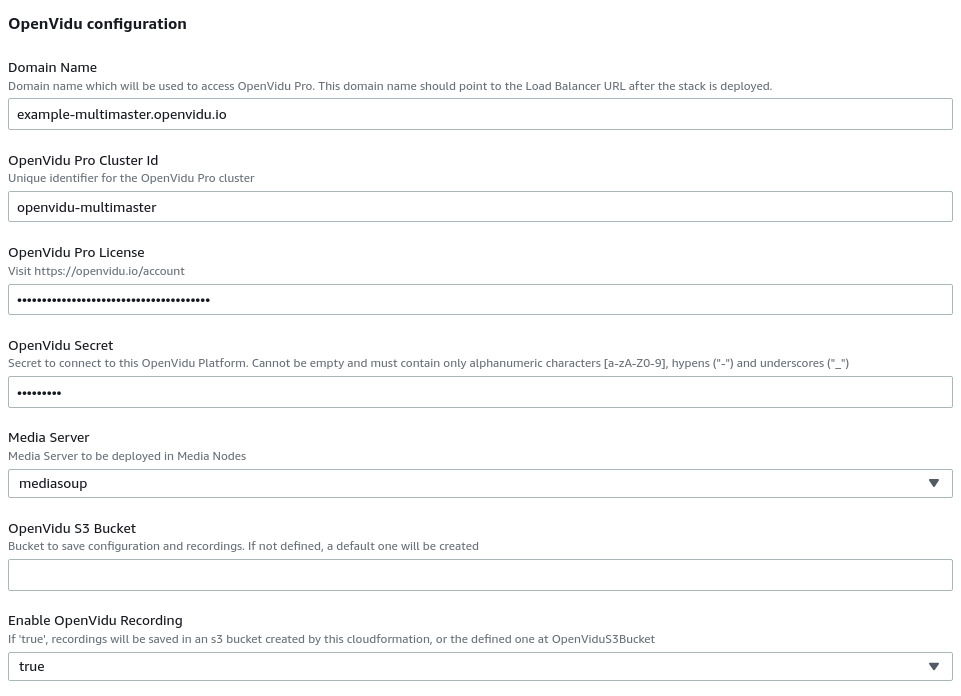
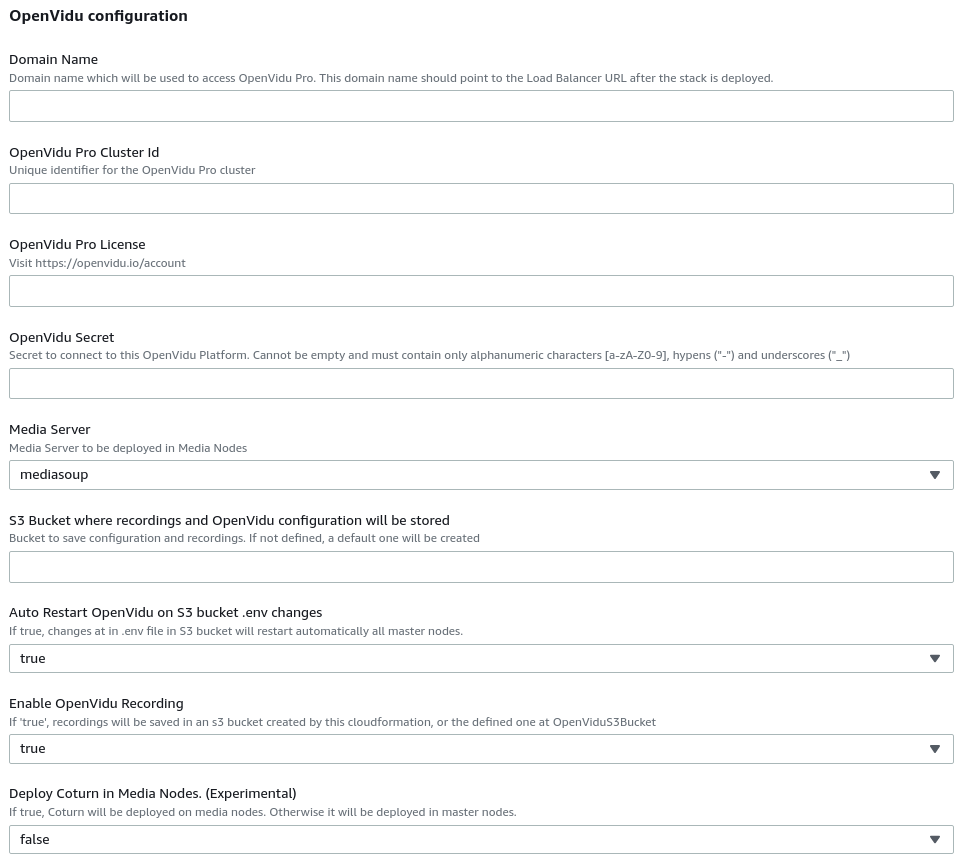
Add enterprise upgrading instructions and coturn in media nodes documentation

diff --git a/docs/reference-docs/openvidu-config.md b/docs/reference-docs/openvidu-config.md
@@ -11,8 +11,10 @@ These properties may be set:
 ---
 
 - **[Configuration parameters for OpenVidu <span id="openvidu-pro-tag" style="display: inline-block; background-color: #06d362; color: white; font-weight: bold; padding: 0px 5px; margin-left: 2px; border-radius: 3px; font-size: 13px; line-height:21px; font-family: Montserrat, sans-serif;">CE</span>](#configuration-parameters-for-openvidu-ce)**<div style="margin-bottom: 5px"></div>
+    - **[Advanced parameters for OpenVidu <span id="openvidu-pro-tag" style="display: inline-block; background-color: #06d362; color: white; font-weight: bold; padding: 0px 5px; margin-left: 2px; border-radius: 3px; font-size: 13px; line-height:21px; font-family: Montserrat, sans-serif;">CE</span>](#advanced-parameters-for-openvidu-ce)**<div style="margin-bottom: 5px"></div>
 - **[Configuration parameters for OpenVidu <span id="openvidu-pro-tag" style="display: inline-block; background-color: rgb(0, 136, 170); color: white; font-weight: bold; padding: 0px 5px; margin-left: 2px; border-radius: 3px; font-size: 13px; line-height:21px; font-family: Montserrat, sans-serif;">PRO</span>](#configuration-parameters-for-openvidu-pro)**<div style="margin-bottom: 5px"></div>
 - **[Configuration parameters for OpenVidu <span id="openvidu-pro-tag" style="display: inline-block; background-color: #9c27b0; color: white; font-weight: bold; padding: 0px 5px; margin-left: 2px; border-radius: 3px; font-size: 13px; line-height:21px; font-family: Montserrat, sans-serif;">ENTERPRISE</span>](#configuration-parameters-for-openvidu-enterprise)**<div style="margin-bottom: 5px"></div>
+    - **[Advanced parameters for OpenVidu <span id="openvidu-pro-tag" style="display: inline-block; background-color: rgb(0, 136, 170); color: white; font-weight: bold; padding: 0px 5px; margin-left: 2px; border-radius: 3px; font-size: 13px; line-height:21px; font-family: Montserrat, sans-serif;">PRO</span> <span id="openvidu-pro-tag" style="display: inline-block; background-color: #9c27b0; color: white; font-weight: bold; padding: 0px 5px; margin-left: 2px; border-radius: 3px; font-size: 13px; line-height:21px; font-family: Montserrat, sans-serif;">ENTERPRISE</span>](#advanced-parameters-for-openvidu-pro-and-enterprise)**<div style="margin-bottom: 5px"></div>
 - **[Special conditions of OpenVidu development container](#special-conditions-of-openvidu-development-container)**
 
 ---
@@ -51,6 +53,26 @@ These configuration parameters apply to OpenVidu CE, OpenVidu Pro and OpenVidu E
 | **`OPENVIDU_SESSIONS_GARBAGE_INTERVAL`** | How often the garbage collector of non active sessions runs. This helps cleaning up Sessions that have been initialized through REST API, and maybe have had Connections created, but have had no final users connected (no Connection of the Session entered `active` status). Default to 900s (15 mins). 0 to disable the non active sessions garbage collector. | **900** |
 | **`OPENVIDU_SESSIONS_GARBAGE_THRESHOLD`** | Minimum time in seconds that a non active session must have been in existence for the garbage collector of non active sessions to remove it. Default to 3600s (1 hour). If non active sessions garbage collector is disabled (property `OPENVIDU_SESSIONS_GARBAGE_INTERVAL` is set to 0) this property is ignored. | **3600** |
 | **`OPENVIDU_WEBRTC_ICE_SERVERS`** | Array of ICE servers to use instead of default Coturn at browser/clients side (comma-separated list of ICE Servers). Examples: <ul><li>`["url=turns:example.turn.com:443,staticAuthSecret=secret"]`</li><li>`["url=turns:example.turn.com:443,username=usertest,credential=userpass"]`</li></ul> [More Details](deployment/allow-users-behind-firewalls/){:target="\_blank"} | **[ ]** |
+
+<br>
+
+### Advanced parameters for OpenVidu CE
+
+<div class="warningBoxContent">
+  <div style="display: table-cell; vertical-align: middle;">
+      <i class="icon ion-android-alert warningIcon"></i>
+  </div>
+  <div class="warningBoxText">
+    OpenVidu is deployed by default with some sane defaults. We assume, for example, that all Nodes has its own Public IP, so public IPs are autodiscovered while deploying. If you deploy using Cloudformation or you have a netowork infrastructure similar to the one described in our guides, you don't need to modify any of these parameters. In any case, here are those parameters.
+  </div>
+</div>
+
+| Parameter | Description | Default value |
+| --------- | ----------- | ------------- |
+| **`COTURN_IP`** | This is the IP of the default TURN/STUN Coturn server deployed with OpenVidu. <br><ul><li>By default it is autodiscovered Public IPv4. This IP is used by browsers and Kurento Media Server as TURN/STUN service for ICE protocol to autodiscover its own Public IP.</li><li>Possible values: <ul><li>`auto-ipv4`</li><li>`auto-ipv6`</li><li>Any valid Public Ipv4 or Public IPv6</li></ul></li></ul> | **auto-ipv4** |
+| **`COTURN_PORT`** | This is the port used for TURN/STUN Coturn server deployed with OpenVidu in the master node. <br><ul><li>By default it is 3478. This port is used by browsers and Kurento Media Server as TURN/STUN service port for ICE protocol to autodiscover its own Public IP.</li><li>Possible values: Any value between 1-65535 | **3478** |
+| **`OPENVIDU_WEBRTC_ICE_SERVERS`** | Array of ICE servers to use instead of default Coturn at browser/clients side (comma-separated list of ICE Servers). When `OPENVIDU_WEBRTC_ICE_SERVERS` is used, Kurento <br> still uses `COTURN_IP` (or the public IP of media nodes if `OPENVIDU_PRO_COTURN_IN_MEDIA_NODES=true`) but browsers uses the TURN/STUN servers defined at `OPENVIDU_WEBRTC_ICE_SERVERS`.</li> Examples: <ul><li>`["url=turns:example.turn.com:443,staticAuthSecret=secret"]`</li><li>`["url=turns:example.turn.com:443,username=usertest,credential=userpass"]`</li></ul> [More Details](deployment/allow-users-behind-firewalls/){:target="\_blank"} | **[ ]** |
+
 
 <br>
 
@@ -111,6 +133,30 @@ These configuration parameters apply only to OpenVidu Enterprise.
 | **`OPENVIDU_WEBRTC_SIMULCAST`** | Whether to enable [simulcast](openvidu-enterprise/simulcast/) for all Publishers or not | **false** |
 
 <br>
+
+### Advanced parameters for OpenVidu Pro and Enterprise
+
+<div class="warningBoxContent">
+  <div style="display: table-cell; vertical-align: middle;">
+      <i class="icon ion-android-alert warningIcon"></i>
+  </div>
+  <div class="warningBoxText">
+    OpenVidu is deployed by default with some sane defaults. We assume, for example, that all Nodes has its own Public IP, so public IPs are autodiscovered while deploying. If you deploy using Cloudformation or you have a netowork infrastructure similar to the one described in our guides, you don't need to modify any of these parameters. In any case, here are those parameters.
+  </div>
+</div>
+
+| Parameter | Description | Default value |
+| --------- | ----------- | ------------- |
+| **`COTURN_IP`** | This is the IP of the default TURN/STUN Coturn server deployed with OpenVidu in the master node. <br><ul><li>By default it is autodiscovered Public IPv4. This IP is used by browsers and Kurento Media Server (Mediasoup does not need it) as TURN/STUN service for ICE protocol to autodiscover its own Public IP.</li><li>This parameter is used when `OPENVIDU_PRO_COTURN_IN_MEDIA_NODES=false`. When <br> `OPENVIDU_PRO_COTURN_IN_MEDIA_NODES=true` the public IP used for Coturn is the public IPv4 of the media node being in use, ignoring any value of `COTURN_IP`</li><li>Possible values: <ul><li>`auto-ipv4`</li><li>`auto-ipv6`</li><li>Any valid Public Ipv4 or Public IPv6</li></ul></li></ul> | **auto-ipv4** |
+| **`COTURN_PORT`** | This is the port used for TURN/STUN Coturn server deployed with OpenVidu in the master node. <br><ul><li>By default it is 3478. This port is used by browsers and Kurento Media Server (Mediasoup does not need it) as TURN/STUN service port for ICE protocol to autodiscover its own Public IP.</li><li>This parameter is used when `OPENVIDU_PRO_COTURN_IN_MEDIA_NODES=false`. When <br> `OPENVIDU_PRO_COTURN_IN_MEDIA_NODES=true`, defined port here is ignored and `OPENVIDU_PRO_COTURN_PORT_MEDIA_NODES` is used instead (which by default is 443)</li><li>Possible values: Any value between 1-65535 | **3478** |
+| **`OPENVIDU_WEBRTC_ICE_SERVERS`** | Array of ICE servers to use instead of default Coturn at browser/clients side (comma-separated list of ICE Servers). When `OPENVIDU_WEBRTC_ICE_SERVERS` is used, Kurento <br> still uses `COTURN_IP` (or the public IP of media nodes if `OPENVIDU_PRO_COTURN_IN_MEDIA_NODES=true`) but browsers uses the TURN/STUN servers defined at `OPENVIDU_WEBRTC_ICE_SERVERS`.</li> Examples: <ul><li>`["url=turns:example.turn.com:443,staticAuthSecret=secret"]`</li><li>`["url=turns:example.turn.com:443,username=usertest,credential=userpass"]`</li></ul> [More Details](deployment/allow-users-behind-firewalls/){:target="\_blank"} | **[ ]** |
+| **`COTURN_INTERNAL_RELAY`** | If `true`, Coturn will autodiscover its own default network gateway and use the default network gateway IP as a relay IP for ICE candidates. This is usefull if you want relayed traffic to go through internal network instead of the public internet | **false** |
+| **`OPENVIDU_PRO_COTURN_IN_MEDIA_NODES`** | **(Experimental)** If `true`, Coturn will be deployed in media nodes. As Public IP and Port configuration for Coturn, parameters `OPENVIDU_PRO_MEDIA_NODE_PUBLIC_IP_AUTODISCOVER` and `OPENVIDU_PRO_COTURN_PORT_MEDIA_NODES` configures how the Public IP is autodiscovered and what port is used respectively. | **false** |
+| **`OPENVIDU_PRO_MEDIA_NODE_PUBLIC_IP_AUTODISCOVER`** | This parameter defines how the public IP for Coturn is autodiscovered in media nodes when `OPENVIDU_PRO_COTURN_IN_MEDIA_NODES=true`. This IP is used by browsers and Kurento Media Server (Mediasoup does not need it) as TURN/STUN service for ICE protocol. Possible values: <ul><li>`auto-ipv4`</li><li>`auto-ipv6`</li></ul> | **false** |
+| **`OPENVIDU_PRO_COTURN_PORT_MEDIA_NODES`** | This parameter defines what port is used for Coturn in media nodes when `OPENVIDU_PRO_COTURN_IN_MEDIA_NODES=true`. This port is used by browsers and Kurento Media Server (Mediasoup does not need it) as TURN/STUN service port for ICE protocol. Possible values: Any value between 1-65535 | 443 |
+| **`KMS_DOCKER_ENV_*`** | You can add any environment variable to Kurento/Mediasoup running in the media node. If you want to add an environment variable to this container, you must add a variable using this prefix: `KMS_DOCKER_ENV_`, followed by the environment variable you want to setup. For example if you want to setup `KMS_MIN_PORT` to `50000`, it would be `KMS_DOCKER_ENV_KMS_MIN_PORT=50000`. | |
+| **`AWS_*`** | These parameters are used in [OpenVidu PRO](deployment/pro/aws/) and [OpenVidu Enterprise](deployment/enterprise/aws/#single-master-deployment) and are related with AWS needed parameters for interactions with AWS itself. You should not touch this parameters because they are configured on start in Cloudformation deployments. | |
+| **`RM_*`** | These parameters are used in [OpenVidu Enterprise](openvidu-enterprise) to configure a service called `Replication manager`. This is autoconfigured by default while deploying so you don't need to touch these variables. | |
 
 ---
 

diff --git a/docs/deployment/enterprise/upgrading.md b/docs/deployment/enterprise/upgrading.md
@@ -1,0 +1,181 @@
+<h2 id="section-title">Upgrading OpenVidu Pro</h2>
+<hr>
+
+- **[Migrating from 2.21.0 to 2.22.0](#migrating-from-2210-to-2220)**
+- **[Migrating from 2.20.0 to 2.21.0](#migrating-from-2200-to-2210)**
+
+---
+
+<div style="
+    display: table;
+    border: 2px solid #0088aa9e;
+    border-radius: 5px;
+    width: 100%;
+    margin-top: 40px;
+    margin-bottom: 10px;
+    padding: 10px 0 0 0;
+    background-color: rgba(0, 136, 170, 0.04);"><div style="display: table-cell; vertical-align: middle">
+    <i class="icon ion-android-alert" style="
+    font-size: 50px;
+    color: #0088aa;
+    display: inline-block;
+    padding-left: 25%;
+"></i></div>
+<div style="
+    vertical-align: middle;
+    display: table-cell;
+    padding-left: 20px;
+    padding-right: 20px;
+    ">
+      Be careful when upgrading your version of OpenVidu Pro:
+      <ul>
+        <li style="color: inherit">Never upgrade across <strong>multiple major versions</strong>: to upgrade from 2.16.0 to 2.18.0, you must first go through 2.17.0.</li>
+        <li style="color: inherit">Read carefully the <a href="releases/"><strong>Release Notes</strong></a> of any new version you plan to upgrade. Sometimes there are <strong>breaking changes</strong> that will require you to update your application.</li>
+      </ul>
+</div>
+</div>
+
+## Migrating from 2.21.0 to 2.22.0
+
+Depending of of the type of deployment you have (_AWS_ or _On Premises_) you should follow one of the sections described below:
+
+- **[Migrating from 2.21.0 to 2.22.0 (AWS Cloudformation - Single master deployment)](#migrating-from-2210-to-2220-aws-cloudformation-single-master-deployment)**
+- **[Migrating from 2.21.0 to 2.22.0 (On premises - AWS Cloudformation - Single master deployment)](#migrating-from-2210-to-2220-on-premises-single-master-deployment)**
+- **[Migrating from 2.21.0 to 2.22.0 (AWS Cloudformation - High Availability deployment)](#migrating-from-2210-to-2220-aws-cloudformation-high-availability-deployment)**
+
+### Migrating from 2.21.0 to 2.22.0 (AWS Cloudformation - Single master deployment)
+<br>
+
+Upgrading process for this kind of deployment is exactly the same as [Migrating from 2.21.0 to 2.22.0 OpenVidu Pro (AWS with Cloudformation)](https://docs.openvidu.io/en/2.22.0/deployment/pro/upgrading/#migrating-from-2210-to-2220-aws-cloudformation).
+
+> Remember to use `OPENVIDU_EDITION=enterprise` to run the deployment as OpenVidu enterprise.
+
+### Migrating from 2.21.0 to 2.22.0 (On premises - Single master deployment)
+<br>
+
+Upgrading process for this kind of deployment is exactly the same as [Migrating from 2.21.0 to 2.22.0 OpenVidu Pro (On premises)](https://docs.openvidu.io/en/2.22.0/deployment/pro/upgrading/#migrating-from-2210-to-2220-on-premises).
+
+> Remember to use `OPENVIDU_EDITION=enterprise` to run the deployment as OpenVidu enterprise.
+
+### Migrating from 2.21.0 to 2.22.0 (AWS Cloudformation - High Availability deployment)
+<br>
+
+For OpenVidu Enterprise with multiple master nodes, the process of can't be done manually because it would require a lot of different changes on different machines. Instead, OpenVidu Enterprise with High Availability uses a S3 bucket to preserve its configuration. You can access to it from your CloudFormation panel, at the **Resources** section. If you have some recordings in there and you want to preserve for the next version, start from step 1. If not you can go directly to step 3:
+
+<br>
+
+**1)** Clone your current S3 bucket with all of your data to a new S3 bucket. You don't even need any tool installed on your machine. You can open your `AWS cloudshell` and execute:
+
+```
+aws s3api create-bucket \
+    --bucket <new-bucket-v2.22.0> \
+    --region <your-region>
+aws s3 sync s3://<bucket-v2.21.0> s3://<new-bucket-v2.22.0>
+```
+
+**2)** Remove from the new bucket the file named `.env`, located in the root directory of the bucket. This is because we want OpenVidu Enterprise to generate a new one for us.
+
+**3)** Deploy the Cloudformation template of 2.22.0 from [this instructions](https://docs.openvidu.io/en/2.22.0/deployment/enterprise/aws/#high-availability-deployment). If you've followed steps 1 and 2, put at the **`OpenVidu S3 bucket`** parameter your new bucket, Otherwise just keep the parameter blank.
+
+**4)** Wait for the deployment to be in [healthy state](https://docs.openvidu.io/en/2.22.0/deployment/enterprise/aws/#check-cluster-after-deploy)
+
+**5)** Check your new S3 bucket (or check the `new-bucket-v2.22.0` you have created if you followed steps 1 and 2, and move your old configuration to the `.env` configuration of the new bucket. You can follow  [this section](https://docs.openvidu.io/en/2.21.0/deployment/enterprise/aws/#2-change-configuration-by-modifying-s3-configuration-file-not-recommended) to see how to change and restart OpenVidu master nodes.
+
+<br>
+
+---
+
+## Migrating from 2.20.0 to 2.21.0
+
+Depending of of the type of deployment you have (_AWS_ or _On Premises_) you should follow one of the sections described below:
+
+- **[Migrating from 2.20.0 to 2.21.0 (AWS Cloudformation - Single master deployment)](#migrating-from-2200-to-2210-aws-cloudformation-single-master-deployment)**
+- **[Migrating from 2.20.0 to 2.21.0 (On premises - AWS Cloudformation - Single master deployment)](#migrating-from-2200-to-2210-on-premises-single-master-deployment)**
+- **[Migrating from 2.20.0 to 2.21.0 (AWS Cloudformation - High Availability deployment)](#migrating-from-2200-to-2210-aws-cloudformation-high-availability-deployment)**
+
+### Migrating from 2.20.0 to 2.21.0 (AWS Cloudformation - Single master deployment)
+<br>
+
+Upgrading process for this kind of deployment is exactly the same as [Migrating from 2.20.0 to 2.21.0 OpenVidu Pro (AWS with Cloudformation)](https://docs.openvidu.io/en/2.21.0/deployment/pro/upgrading/#migrating-from-2200-to-2210).
+
+> Remember to use `OPENVIDU_EDITION=enterprise` to run the deployment as OpenVidu enterprise.
+
+### Migrating from 2.20.0 to 2.21.0 (On premises - Single master deployment)
+<br>
+
+Upgrading process for this kind of deployment is exactly the same as [Migrating from 2.20.0 to 2.21.0 OpenVidu Pro (On premises)](https://docs.openvidu.io/en/2.21.0/deployment/pro/upgrading/#migrating-from-2200-to-2210).
+
+> Remember to use `OPENVIDU_EDITION=enterprise` to run the deployment as OpenVidu enterprise.
+
+### Migrating from 2.20.0 to 2.21.0 (AWS Cloudformation - High Availability deployment)
+<br>
+
+For OpenVidu Enterprise with multiple master nodes, the process of can't be done manually because it would require a lot of different changes on different machines. Instead, OpenVidu Enterprise with High Availability uses a S3 bucket to preserve its configuration. You can access to it from your CloudFormation panel, at the **Resources** section. If you have some recordings in there and you want to preserve for the next version, start from step 1. If not you can go directly to step 3:
+
+<br>
+
+**1)** Clone your current S3 bucket with all of your data to a new S3 bucket. You don't even need any tool installed on your machine. You can open your `AWS cloudshell` and execute:
+
+```
+aws s3api create-bucket \
+    --bucket <new-bucket-v2.21.0> \
+    --region <your-region>
+aws s3 sync s3://<bucket-v2.20.0> s3://<new-bucket-v2.21.0>
+```
+
+**2)** Remove from the new bucket the file named `.env`, located in the root directory of the bucket. This is because we want OpenVidu Enterprise to generate a new one for us.
+
+**3)** Deploy the Cloudformation template of 2.21.0 from [this instructions](https://docs.openvidu.io/en/2.21.0/deployment/enterprise/aws/#high-availability-deployment). If you've followed steps 1 and 2, put at the **`OpenVidu S3 bucket`** parameter your new bucket, Otherwise just keep the parameter blank.
+
+**4)** Wait for the deployment to be in [healthy state](https://docs.openvidu.io/en/2.21.0/deployment/enterprise/aws/#check-cluster-after-deploy)
+
+**5)** Check your new S3 bucket (or check the `new-bucket-v2.21.0` you have created if you followed steps 1 and 2, and move your old configuration to the `.env` configuration of the new bucket. You can follow  [this section](https://docs.openvidu.io/en/2.21.0/deployment/enterprise/aws/#2-change-configuration-by-modifying-s3-configuration-file-not-recommended) to see how to change and restart OpenVidu master nodes.
+
+<br>
+
+---
+
+## General notes when upgrading
+
+- Remember to update **openvidu-browser** library in your clients. Comply version compatibility according to [Releases](releases/) page.
+- In case you have **mobile applications**: the previous minor version of openvidu-browser is always compatible with the next minor version of openvidu-server. This way you can upgrade your openvidu-server while giving your clients time to update their applications. Applications using the previous and the new version of openvidu-browser can coexist in the new openvidu-server version. For example, if you upgrade openvidu-server to 2.16.0, it will work fine with applications using both openvidu-browser 2.15.0 and 2.16.0. Of course, you must notify your users to update their applications until all of them are using openvidu-browser 2.16.0.
+
+<br><br>
+
+<script src="js/copy-btn.js"></script>
+
+<link rel="stylesheet" href="https://use.fontawesome.com/releases/v5.4.1/css/brands.css" integrity="sha384-Px1uYmw7+bCkOsNAiAV5nxGKJ0Ixn5nChyW8lCK1Li1ic9nbO5pC/iXaq27X5ENt" crossorigin="anonymous">
+<link rel="stylesheet" href="https://use.fontawesome.com/releases/v5.4.1/css/fontawesome.css" integrity="sha384-BzCy2fixOYd0HObpx3GMefNqdbA7Qjcc91RgYeDjrHTIEXqiF00jKvgQG0+zY/7I" crossorigin="anonymous">
+
+<link rel="stylesheet" type="text/css" href="css/downloads/slick-1.6.0.css"/>
+<link rel="stylesheet" type="text/css" href="css/slick-theme.css"/>
+<script type="text/javascript" src="js/downloads/slick-1.6.0.min.js"></script>
+
+<script>
+    $('.slick-captions').slick({
+      asNavFor: '.upgrade-cf-steps',
+      arrows: false,
+      infinite: false,
+      speed: 200,
+      fade: true,
+      dots: false
+    });
+    $('.upgrade-cf-steps').slick({
+      asNavFor: '.slick-captions',
+      autoplay: false,
+      arrows: true,
+      prevArrow: '<div class="slick-btn slick-btn-prev"><i class="icon ion-chevron-left"></i></div>',
+      nextArrow: '<div class="slick-btn slick-btn-next"><i class="icon ion-chevron-right"></i></div>',
+      infinite: false,
+      dots: true,
+      responsive: [
+      {
+        breakpoint: 768,
+        settings: {
+          arrows: true,
+          slidesToShow: 1
+        }
+      },
+    ]
+    });
+</script>

diff --git a/docs/deployment/pro/on-premises.md b/docs/deployment/pro/on-premises.md
@@ -107,11 +107,14 @@ Once you have your instances ready, be sure to meet the following criteria in th
 
     - **Free ports inside the server**: Master Node services will need the following ports to be available inside the machine: 80, 443,  3478, 5044, 5442, 5443, 6379, 9200. If some of these ports is used by any process, OpenVidu platform won't work correctly. It is a typical error to have an NGINX process in the system before installing OpenVidu. Please uninstall it.
 
+    - It is also recommended to allow outbound traffic to all ports.
+
 - **Port configuration in _Media Nodes_**
 
     - **Open these ports** ([here](#close-ports-to-avoid-external-attacks_1) you have an UFW sample to configure a firewall)
 
         - **22 TCP**: to connect using SSH to admin OpenVidu.
+        - **443 TCP+UDP**: used by TURN server to resolve clients IPs when `OPENVIDU_PRO_COTURN_IN_MEDIA_NODES=true`.
         - **40000 - 65535 TCP+UDP**: used by Kurento Media Server to establish media connections.
         - **8888 TCP**: Kurento Media Server handler listens on port 8888. <strong style="color: #990000">WARNING!!</strong> This port must be closed to the Internet and **must only be accessible for your Master Node**, or anyone could spy your sessions.
         - **3000 TCP**: All _Media Nodes_ offer a REST API endpoint to provision their services. <strong style="color: #990000">WARNING!!</strong> This port must be closed to the Internet and **must only be accessible for your Master Node**, or anyone could spy your sessions.<br><br>
@@ -119,6 +122,7 @@ Once you have your instances ready, be sure to meet the following criteria in th
     - **Close all other ports**: this is VERY important to avoid external attacks to OpenVidu internal services. Check Media Node troubleshooting section [Close ports to avoid external attacks](#close-ports-to-avoid-external-attacks_1) to learn more about this.
 
     - **Free ports inside the server**: Media Node services will need the port 8888 and 3000 to be available inside the machine.
+    - It is also recommended to allow outbound traffic to all ports.
 
 <br>
 
@@ -239,6 +243,16 @@ This can be convenient sometimes but it have it downsides because Elasticsearch,
 We recommend to configure an External Elasticsearch and Kibana. Take a look into how to configure it [here](openvidu-pro/monitoring-elastic-stack/#configuring-an-external-elastic-stack)
 
 <br>
+
+##### Coturn Configuration
+
+Coturn is an implementation of the TURN/STUN protocol needed for WebRTC ICE candidates discovery, and it is an essential part of WebRTC. By default it is configured in OpenVidu, but you can choose where to deploy this service.
+
+It is configured with the parameter `OPENVIDU_PRO_COTURN_IN_MEDIA_NODES` which by default is set to `false`, so Coturn will be deployed at the master node. If you want to deploy Coturn across all media nodes, you need to set `OPENVIDU_PRO_COTURN_IN_MEDIA_NODES=true`, and OpenVidu will deploy that services in all your media nodes.
+
+You can check for more parameters that can be used for Coturn configuration in the [Advanced parameters for OpenVidu Pro](reference-docs/openvidu-config/#advanced-parameters-for-openvidu-pro-and-enterprise)
+
+> Note: If you are using `OPENVIDU_PRO_COTURN_IN_MEDIA_NODES=false`, you need port 3478 TCP/UDP open in the master node. Otherwise, with `OPENVIDU_PRO_COTURN_IN_MEDIA_NODES=true`, you need to open port 443 TCP/UDP in media nodes.
 
 ##### Videoconference application
 

diff --git a/docs/deployment/pro/aws.md b/docs/deployment/pro/aws.md
@@ -299,6 +299,10 @@ These properties configure some other options of your stack.
       <td class="first-col">Deploy OpenVidu Call application<br><span class="field-comment">Choose if you want to deploy OpenVidu Call application alongside OpenVidu platform<span></td>
       <td><em>Choose from the drop-down button</em></td>
     </tr>
+    <tr>
+      <td class="first-col">Deploy Coturn in Media Nodes. (Experimental)<br><span class="field-comment">Now TURN/STUN (Coturn) service can be deployed at media nodes. Using Media nodes for Coturn implies better performance and scalability for the Coturn service deployed with OpenVidu. If true, Coturn will be deployed at media nodes.<span></td>
+      <td><em>Choose from the drop-down button</em></td>
+    </tr>
   </table>
 </div>
 

diff --git a/docs/deployment/enterprise/aws.md b/docs/deployment/enterprise/aws.md
@@ -172,6 +172,10 @@ First, indicate a name for your deployment. Next fill each section with the **Pa
         </ul>
       </td>
     </tr>
+    <tr>
+      <td class="first-col">Deploy Coturn in Media Nodes. (Experimental)<br><span class="field-comment">Now TURN/STUN (Coturn) service can be deployed at media nodes. Using Media nodes for Coturn implies better performance and scalability for the Coturn service deployed with OpenVidu. If true, Coturn will be deployed at media nodes.<span></td>
+      <td><em>Choose from the drop-down button</em></td>
+    </tr>
   </table>
 </div>
 
